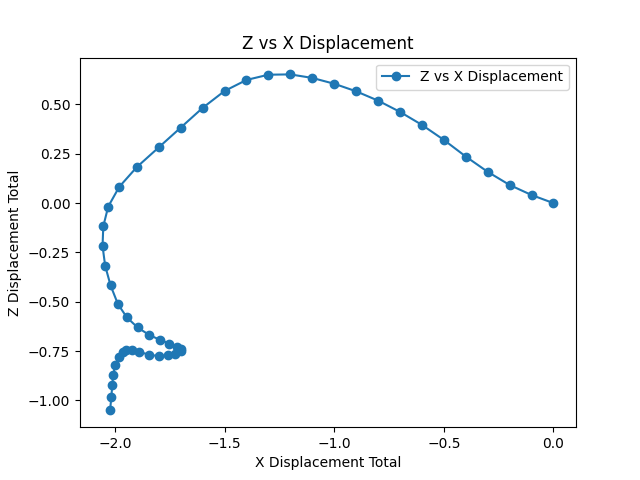
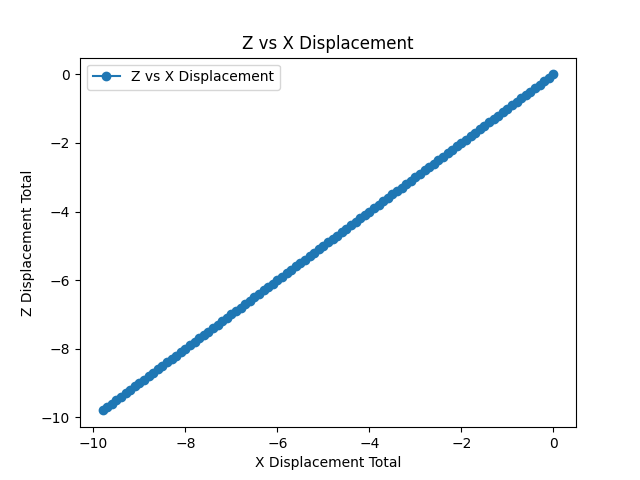
add robot base

diff --git a/OmniIsaacGymEnvs/omniisaacgymenvs/tasks/cloth_manipulation/denso_base.py b/OmniIsaacGymEnvs/omniisaacgymenvs/tasks/cloth_manipulation/denso_base.py
@@ -30,7 +30,7 @@
 
 Inherits Gym's RLTask class and abstract base class. Inherited by environment classes. Not directly executed.
 
-Configuration defined in FactoryBase.yaml. Asset info defined in factory_asset_info_franka_table.yaml.
+Configuration defined in FactoryBase.yaml. Asset info defined in factory_asset_info_denso_table.yaml.
 """
 
 
@@ -84,9 +84,9 @@ class DensoBase(RLTask, FactoryABCBase):
         self.cfg_base = hydra.compose(config_name=config_path)
         self.cfg_base = self.cfg_base["task"]  # strip superfluous nesting
 
-        asset_info_path = "../tasks/factory/yaml/factory_asset_info_franka_table.yaml"  # relative to Gym's Hydra search path (cfg dir)
-        self.asset_info_franka_table = hydra.compose(config_name=asset_info_path)
-        self.asset_info_franka_table = self.asset_info_franka_table[""][""][""][
+        asset_info_path = "../tasks/factory/yaml/denso_asset_info_denso_table.yaml"  # relative to Gym's Hydra search path (cfg dir)
+        self.asset_info_denso_table = hydra.compose(config_name=asset_info_path)
+        self.asset_info_denso_table = self.asset_info_denso_table[""][""][""][
             "tasks"
         ]["factory"][
             "yaml"
@@ -141,7 +141,7 @@ class DensoBase(RLTask, FactoryABCBase):
                         rb.GetMaxAngularVelocityAttr().Set(64 / math.pi * 180)
 
             table_translation = np.array(
-                [0.0, 0.0, self.cfg_base.env.table_height * 0.5]
+                [0.0, 0.0, self.cfg_base.env.denso_table_height * 0.5]
             )
             table_orientation = np.array([1.0, 0.0, 0.0, 0.0])
 
@@ -152,9 +152,31 @@ class DensoBase(RLTask, FactoryABCBase):
                 orientation=table_orientation,
                 scale=np.array(
                     [
-                        self.asset_info_franka_table.table_depth,
-                        self.asset_info_franka_table.table_width,
-                        self.cfg_base.env.table_height,
+                        self.asset_info_denso_table.table_depth,
+                        self.asset_info_denso_table.table_width,
+                        self.cfg_base.env.denso_table_height,
+                    ]
+                ),
+                size=1.0,
+                color=np.array([0, 0, 0]),
+            )
+
+            base_translation = np.array(
+                [0.85, 0.0, self.cfg_base.env.denso_table_height * 0.5]
+            )
+            base_orientation = np.array([1.0, 0.0, 0.0, 0.0])
+
+
+            robot_base = FixedCuboid(
+                prim_path=self.default_zero_env_path + "/robot_base",
+                name="robot_base",
+                translation=base_translation,
+                orientation=base_orientation,
+                scale=np.array(
+                    [
+                        self.asset_info_denso_table.base_depth,
+                        self.asset_info_denso_table.base_width,
+                        self.cfg_base.env.denso_table_height,
                     ]
                 ),
                 size=1.0,

diff --git a/OmniIsaacGymEnvs/omniisaacgymenvs/tasks/cloth_manipulation/denso_cloth_manipulation.py b/OmniIsaacGymEnvs/omniisaacgymenvs/tasks/cloth_manipulation/denso_cloth_manipulation.py
@@ -165,7 +165,7 @@ class DensoClothManipulation(DensoCloth, FactoryABCTask):
 
         self._apply_actions_as_ctrl_targets_denso(
             actions=self.actions,
-            ctrl_target_gripper_dof_pos=self.asset_info_franka_table.franka_gripper_width_min,   #初始状态夹爪位置
+            ctrl_target_gripper_dof_pos=self.asset_info_denso_table.franka_gripper_width_min,   #初始状态夹爪位置
             do_scale=True
         )
 
@@ -188,7 +188,7 @@ class DensoClothManipulation(DensoCloth, FactoryABCTask):
 
         self._apply_actions_as_ctrl_targets_denso(
             actions=self.actions,
-            ctrl_target_gripper_dof_pos=self.asset_info_franka_table.franka_gripper_width_max,
+            ctrl_target_gripper_dof_pos=self.asset_info_denso_table.franka_gripper_width_max,
             do_scale=True,
         )
 
@@ -274,7 +274,7 @@ class DensoClothManipulation(DensoCloth, FactoryABCTask):
         # cloth_y_pos = self.cfg_task.randomize.cloth_pos_xy_initial[1]+ torch.rand(1).item() * 0.1
         self.cloth_pos_offset = cloth_noise_xy[env_ids, 0].item()
 
-        cloth_z_pos = self.cfg_base.env.table_height + 0.001
+        cloth_z_pos = self.cfg_base.env.denso_table_height + 0.001
         init_loc = Gf.Vec3f(cloth_x_pos, cloth_y_pos, cloth_z_pos)
         physicsUtils.setup_transform_as_scale_orient_translate(self.plane_mesh)
         physicsUtils.set_or_add_translate_op(self.plane_mesh, init_loc)
@@ -330,9 +330,10 @@ class DensoClothManipulation(DensoCloth, FactoryABCTask):
             # target_x = -self.target_postition[i, 0].item() + 0.50 - 0.115
             # target_y = -self.target_postition[i, 1].item() - 0.102
             # target_z = self.target_postition[i, 2].item() + 0.097
-            target_x = -self.target_postition[i, 0].item() + 0.50 - 0.12
+            target_x = -self.target_postition[i, 0].item() + 0.75 - 0.12
             target_y = -self.target_postition[i, 1].item() - 0.03
-            target_z = self.target_postition[i, 2].item() + 0.16
+            target_z = 0.16
+            print("self.target_postition = ", self.target_postition)
             
             # target_frame = PyKDL.Frame(PyKDL.Rotation.RPY(3.1415926, 0, 0.7854),
             #                             PyKDL.Vector(target_x, target_y, target_z))
@@ -556,6 +557,9 @@ class DensoClothManipulation(DensoCloth, FactoryABCTask):
                             self.particle_cloth_positon[0, 44], self.particle_cloth_positon[0, 8], self.particle_cloth_positon[0, 0]), 0)
 
         self.achieved_goal = self.achieved_goal.unsqueeze(dim=0)
+
+        self.end_effector_pos[0, 2] -= 0.5
+        print("end_effector_pos value:", self.end_effector_pos)
         
         obs_tensors = [self.end_effector_pos,
                     #    self.fingertip_midpoint_quat,

diff --git a/OmniIsaacGymEnvs/omniisaacgymenvs/tasks/cloth_manipulation/denso_cloth.py b/OmniIsaacGymEnvs/omniisaacgymenvs/tasks/cloth_manipulation/denso_cloth.py
@@ -170,7 +170,7 @@ class DensoCloth(DensoBase, FactoryABCEnv):
         cloth_x_pos = self.cfg_task.randomize.cloth_pos_xy_initial[0]
         cloth_y_pos = self.cfg_task.randomize.cloth_pos_xy_initial[1]
 
-        cloth_z_pos = self.cfg_base.env.table_height + 0.001
+        cloth_z_pos = self.cfg_base.env.denso_table_height + 0.001
         # garment_position = torch.tensor([cloth_x_pos, cloth_y_pos, cloth_z_pos], device=self._device) 
 
         env_path = f"/World/envs/env_{idx}/garment"
